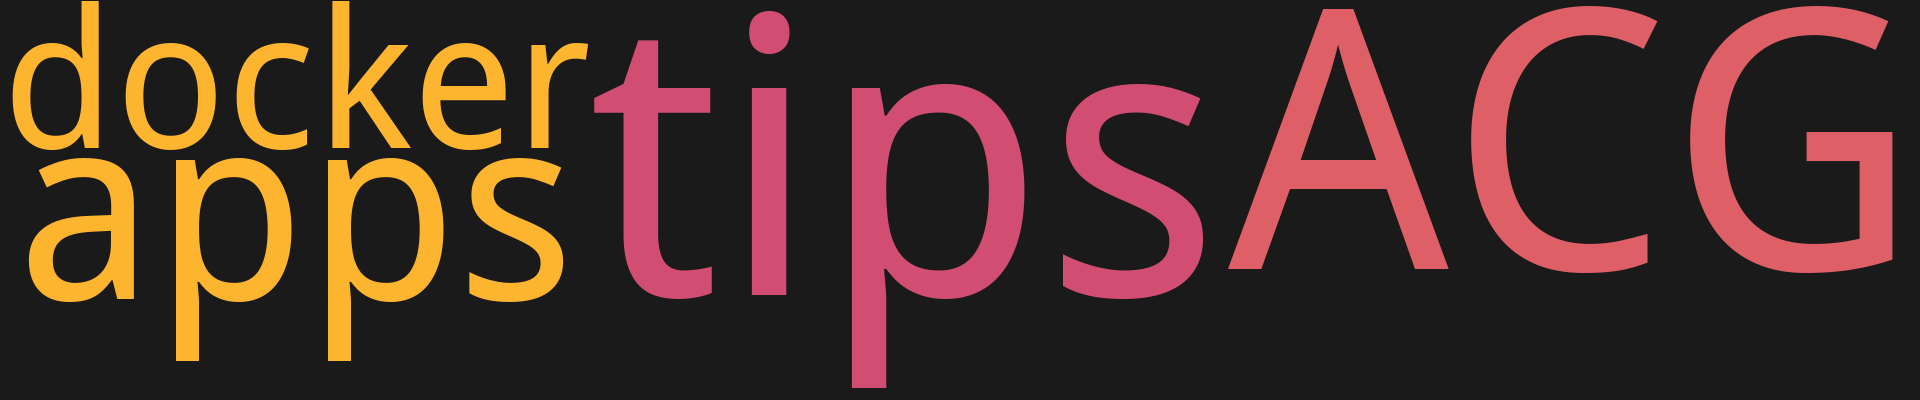
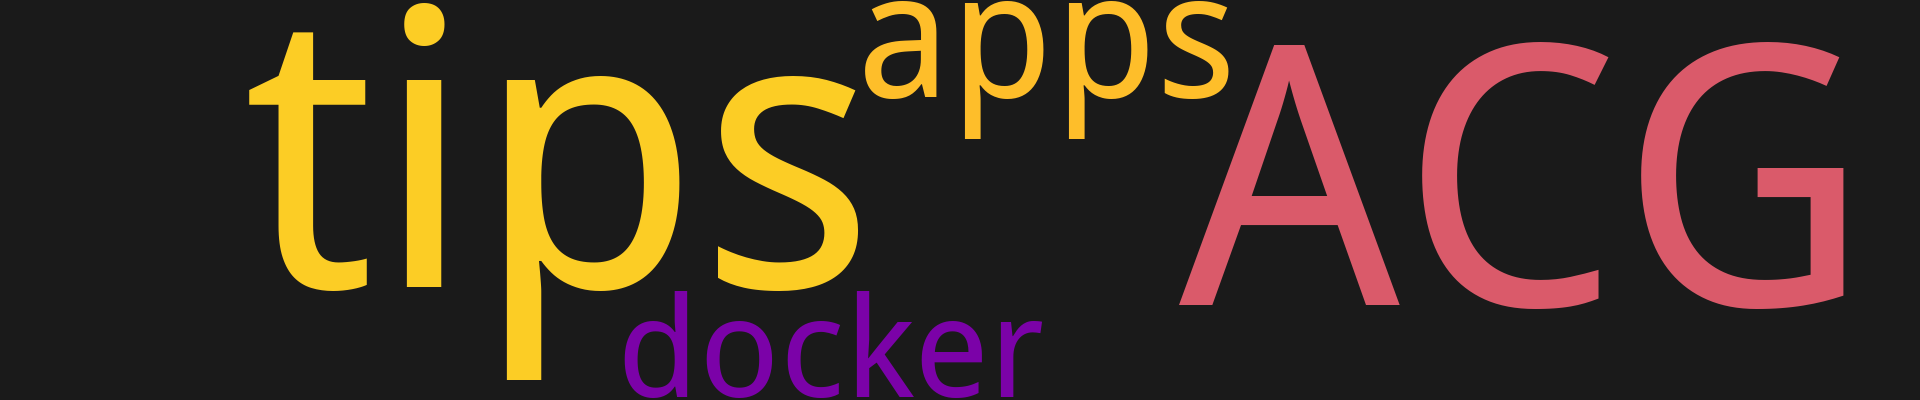
Enhance Markdown processing and URL handling: Introduce functionality to convert GitHub raw links to relative paths based on article categories. Update README.md with the latest commit timestamp. Replace word cloud images with updated versions for improved visual consistency.

diff --git a/src/utils/text_utils.py b/src/utils/text_utils.py
@@ -4,9 +4,12 @@
 封装 Markdown 转换和文本处理逻辑
 """
 
+import re
 import markdown
 import logging
 from typing import Optional
+
+from ..core.config import config
 
 logger = logging.getLogger(__name__)
 
@@ -31,14 +34,53 @@ class MarkdownProcessor:
                 }
             }
         )
+        self._setup_url_patterns()
         logger.debug("Markdown 处理器初始化完成")
     
-    def convert_to_html(self, markdown_text: str) -> str:
+    def _setup_url_patterns(self) -> None:
+        """设置 URL 替换模式"""
+        # 匹配 GitHub raw 链接
+        # https://raw.githubusercontent.com/syaofox/syaofox.github.io/main/assets/...
+        self._github_raw_pattern = re.compile(
+            r'https://raw\.githubusercontent\.com/'
+            + re.escape(config.github_repository)
+            + r'/main/(assets/[^"\s)]+)'
+        )
+        logger.debug(f"URL 模式初始化完成，仓库: {config.github_repository}")
+    
+    def _convert_github_urls_to_relative(self, html_content: str, article_category: str) -> str:
+        """
+        将 GitHub raw 链接转换为相对路径
+        
+        Args:
+            html_content: HTML 内容
+            article_category: 文章分类（用于计算相对路径）
+            
+        Returns:
+            转换后的 HTML 内容
+        """
+        # 从 html/articles/分类/ 到 html/assets/
+        # 需要向上两级：../../assets/
+        def replace_url(match):
+            asset_path = match.group(1)  # assets/images/xxx
+            return f'../../{asset_path}'
+        
+        converted = self._github_raw_pattern.sub(replace_url, html_content)
+        
+        # 统计转换数量
+        original_count = len(self._github_raw_pattern.findall(html_content))
+        if original_count > 0:
+            logger.info(f"URL 转换完成，分类: {article_category}，转换了 {original_count} 个链接")
+        
+        return converted
+    
+    def convert_to_html(self, markdown_text: str, article_category: str = '') -> str:
         """
         将 Markdown 文本转换为 HTML
         
         Args:
             markdown_text: Markdown 文本
+            article_category: 文章分类（用于 URL 转换）
             
         Returns:
             转换后的 HTML 文本
@@ -49,6 +91,10 @@ class MarkdownProcessor:
             
             # 转换 Markdown 内容为 HTML
             html_content = self._md_instance.convert(markdown_text or '')
+            
+            # 转换 GitHub raw 链接为相对路径
+            if article_category:
+                html_content = self._convert_github_urls_to_relative(html_content, article_category)
             
             logger.debug("Markdown 转换成功")
             return html_content

diff --git a/src/generators/html_generator.py b/src/generators/html_generator.py
@@ -65,8 +65,11 @@ class HTMLGenerator:
             生成的 HTML 内容
         """
         try:
-            # 转换 Markdown 内容为 HTML
-            html_content = self._markdown_processor.convert_to_html(article.content)
+            # 转换 Markdown 内容为 HTML，传递分类信息用于 URL 转换
+            html_content = self._markdown_processor.convert_to_html(
+                article.content,
+                article_category=article.primary_label
+            )
             
             # 准备模板数据
             template_data = {

diff --git a/README.md b/README.md
@@ -1,7 +1,7 @@
 
 <p align='center'>
     <img src="https://badgen.net/github/issues/syaofoxsyaofox.github.io"/>
-    <img src="https://badgen.net/badge/last-commit/2025-10-12 17:02:05"/>
+    <img src="https://badgen.net/badge/last-commit/2025-10-12 17:11:09"/>
     <img src="https://badgen.net/github/forks/syaofoxsyaofox.github.io"/>
     <img src="https://badgen.net/github/stars/syaofoxsyaofox.github.io"/>
     <img src="https://badgen.net/github/watchers/syaofoxsyaofox.github.io"/>
